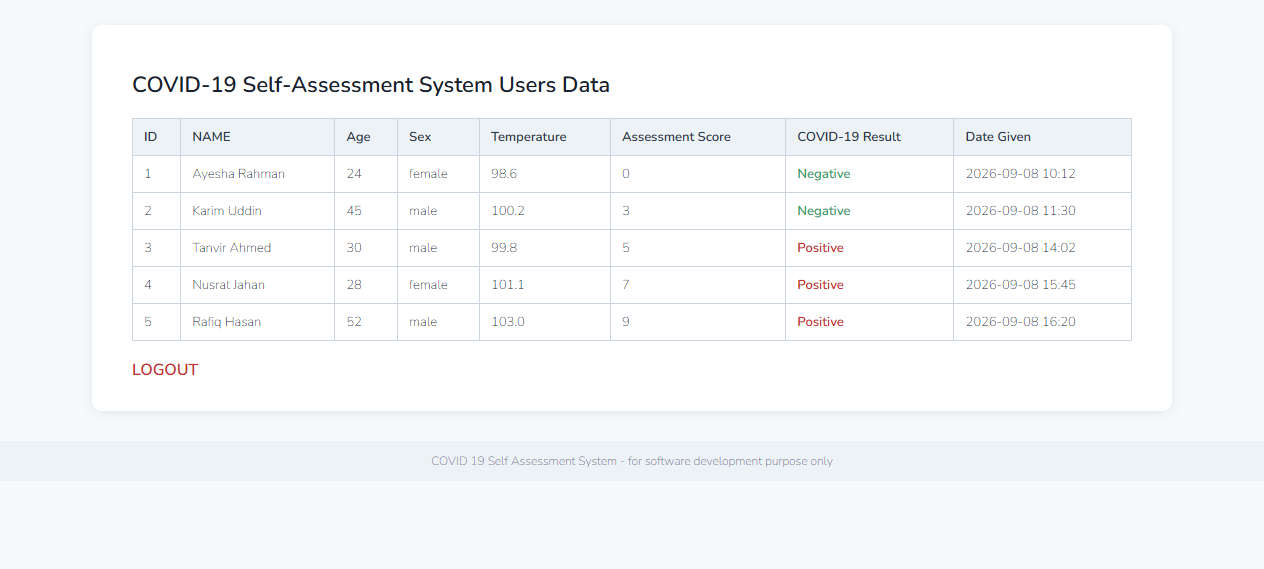
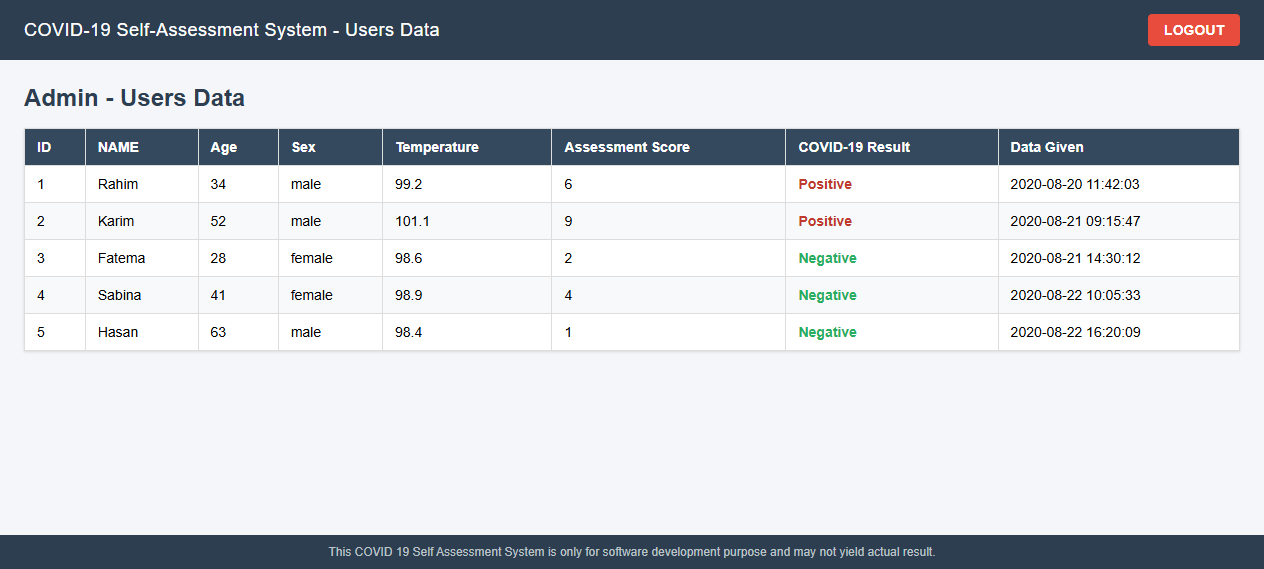
docs: document admin hardening (CSRF-safe logout, login throttle) in README, changelog, and review report

diff --git a/CHANGELOG.md b/CHANGELOG.md
@@ -10,11 +10,17 @@ The format is based on [Keep a Changelog](https://keepachangelog.com/en/1.1.0/).
 
 ### Overview
 
-A systematic **code-quality and security review** of the application produced **21 fixes** across three severity levels, delivered through three stackable pull requests:
+A systematic **code-quality and security review** of the application produced fixes delivered through four stackable pull requests:
 
 - **10 low-severity** code-quality fixes — [PR #1](https://github.com/tawhid37/covid19webapp/pull/1)
 - **6 medium-severity** logic/HTML fixes — [PR #2](https://github.com/tawhid37/covid19webapp/pull/2)
 - **5 high-severity** security fixes — [PR #3](https://github.com/tawhid37/covid19webapp/pull/3)
+- **2 admin-hardening** fixes (CSRF-safe logout + brute-force protection) — [PR #5](https://github.com/tawhid37/covid19webapp/pull/5)
+
+### Admin Hardening — Logout & Brute-Force (PR #5)
+
+- 🚪 **CSRF-safe logout** — logout moved from `GET /logout` to a **`POST /logout`** route (named `logout`) inside the `admin` middleware group. The admin view now submits a form with a **`@csrf` token** instead of a plain link, eliminating the CSRF/logout-abuse vector.
+- 🛡 **Rate-limited admin login** — `POST /adminpass` is now wrapped in Laravel's built-in **`throttle:5,1`** middleware, limiting brute-force password guessing to **5 attempts per minute per IP** (429 response beyond that).
 
 ### High — Security (PR #3)
 

diff --git a/README.md b/README.md
@@ -140,6 +140,10 @@ The admin panel allows viewing all submitted assessment records.
 | Default password | `admin`                                   |
 | Configuration | `config/covid19.php` → `admin_password_hash` (bcrypt, overridable via the `ADMIN_PASSWORD_HASH` env variable) |
 | Protected route | `GET /adminshow` behind the `admin` middleware |
+| Login rate limit | **5 attempts per minute per IP** (`throttle:5,1`) |
+| Logout | `POST /logout` (CSRF-protected form) inside the `admin` route group |
+
+> **Security:** entering the wrong password 5 times within a minute locks login for that IP for 1 minute (`429 Too Many Requests`).
 
 To change the admin password, generate a new bcrypt hash and update `ADMIN_PASSWORD_HASH`:
 
@@ -213,6 +217,8 @@ This project has been hardened with the following measures (see the [Changelog](
 - ✅ **Server-side Form Request validation** for all user input
 - ✅ **HTTPS** jQuery CDN (fixed mixed-content)
 - ✅ Logout **invalidates the session** and regenerates the CSRF token
+- ✅ Logout is **CSRF-safe** — it is a `POST` form (with token) inside the `admin` middleware group, not a GET link
+- ✅ Admin login is **rate-limited** (5 attempts/minute/IP) via Laravel's `throttle` middleware
 - ✅ SQL injection / XSS mitigated via Blade auto-escaping and parameterised queries
 
 ---

diff --git a/docs/CODE_REVIEW_REPORT.md b/docs/CODE_REVIEW_REPORT.md
@@ -93,10 +93,17 @@ This documentation branch (`docs/project-documentation`) is built **on top of th
 
 ---
 
-## Recommendations Going Forward
+## Follow-up — Admin Hardening (PR #5)
+
+Two of the recommendations below were implemented in a dedicated follow-up pull request — [PR #5](https://github.com/tawhid37/covid19webapp/pull/5):
+
+| ID | Recommendation | Status |
+| -- | -------------- | ------ |
+| R-01 | CSRF-safe logout | ✅ **Done** — logout is now `POST /logout` (named route) inside the `admin` middleware group, triggered from a Blade form with a `@csrf` token instead of a GET link. |
+| R-02 | Brute-force protection on admin login | ✅ **Done** — `POST /adminpass` is wrapped in Laravel's built-in `throttle:5,1` middleware (5 attempts/minute/IP; `429` beyond that). |
+
+### Remaining recommendations
 
 - Introduce an automated test suite (unit + feature) covering the scoring thresholds and admin auth.
 - Consider rotating the demo admin password before any real deployment.
-- Add rate-limiting/brute-force protection on the admin login route.
-- Add CSRF-protection-aware logout (already applied) and confirm no other routes bypass authentication.
 - When the app is deployed publicly, serve over HTTPS and configure proper database credentials via environment variables (never in source).

diff --git a/CONTRIBUTING.md b/CONTRIBUTING.md
@@ -107,6 +107,8 @@ Because this application handles user-entered health information, security is a 
 - **Never** trust client-side input — always validate on the server.
 - Use **bcrypt** and Laravel's `Hash` facade for passwords.
 - Keep sensitive/admin functionality behind **middleware**.
+- Perform state-changing actions via **`POST` forms with `@csrf` tokens** — never GET links (see the CSRF-safe logout pattern).
+- Protect authentication endpoints against brute-force with Laravel's **`throttle`** middleware.
 - Rely on **Blade auto-escaping** and parameterised queries to prevent XSS and SQL injection.
 - Use `https://` when referencing external assets.
 
